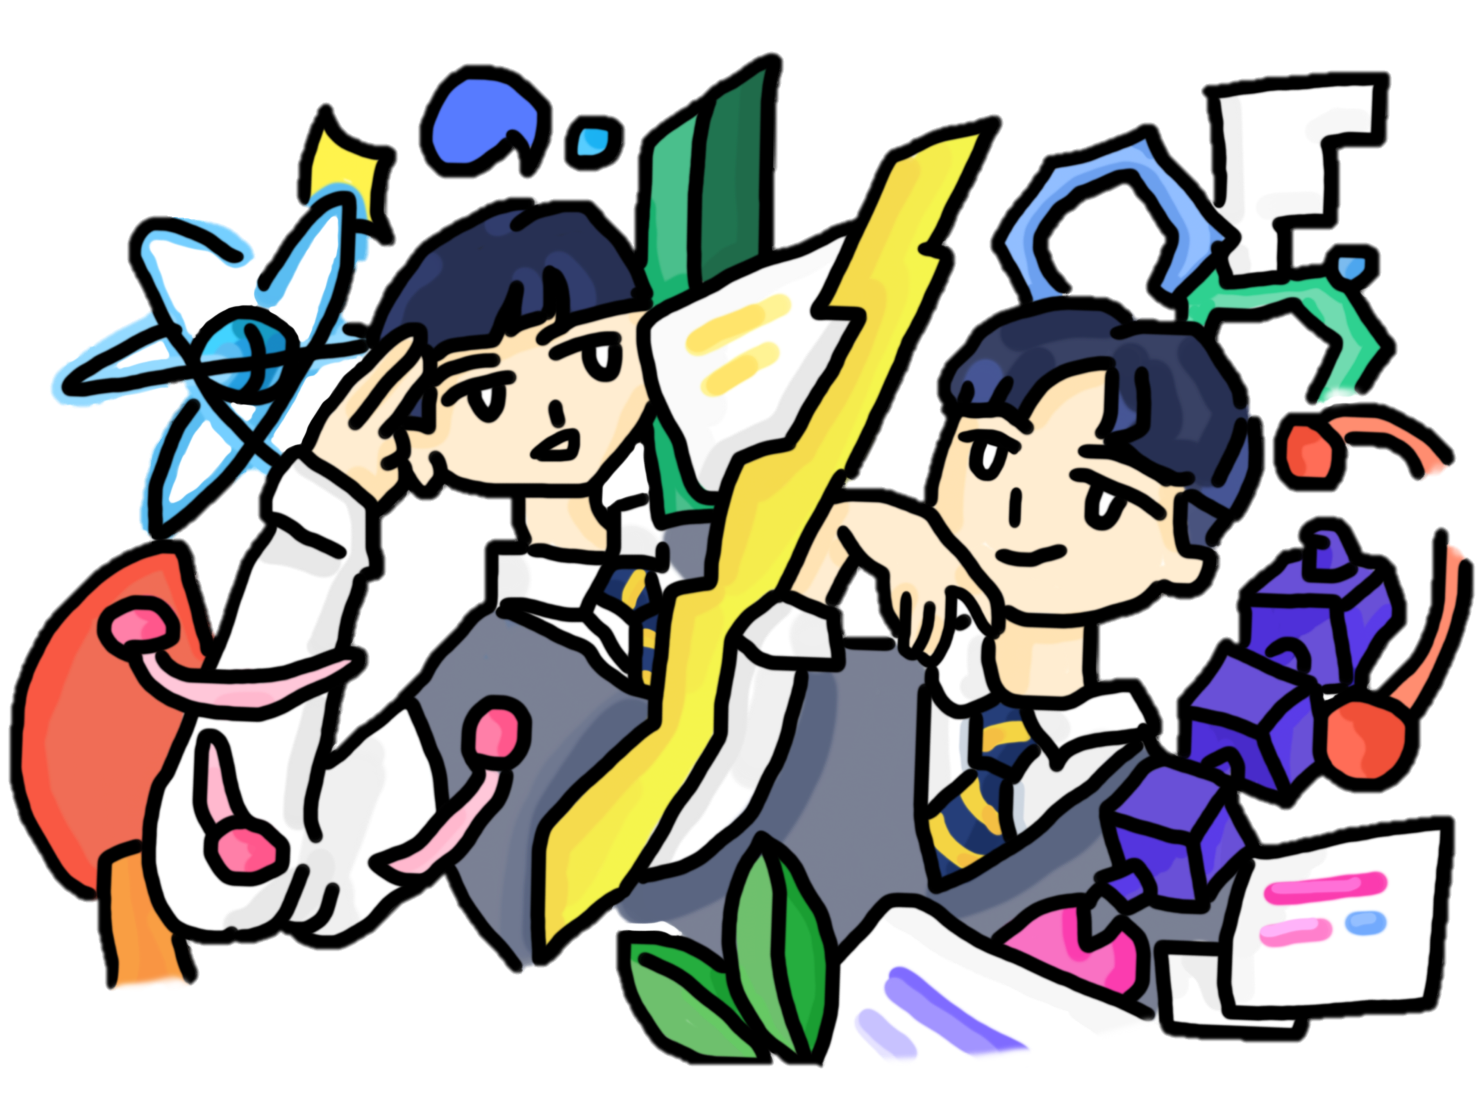
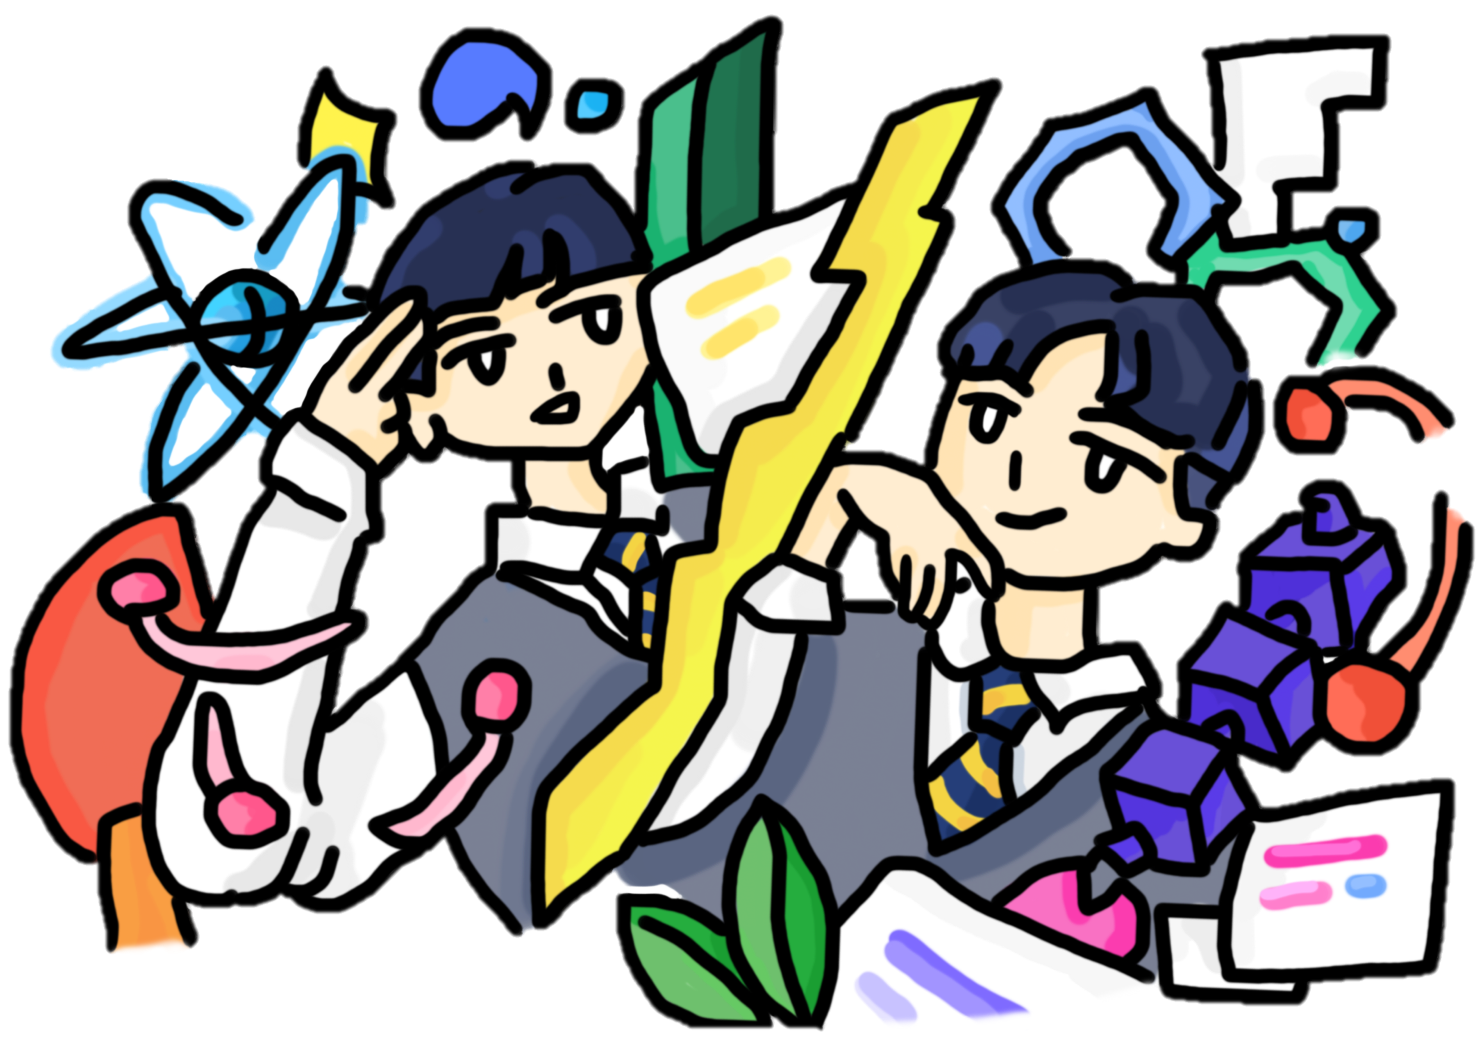
fix: responsive header

diff --git a/src/components/header.tsx b/src/components/header.tsx
@@ -8,8 +8,8 @@ const Container = styled.div`
   height: 386px;
   background: linear-gradient(to right, #ffd43b, #fcc419, #fab005, #f59f00, #f59f00);
 
-  @media (max-width: 795px) {
-    height: 486px;
+  @media (max-width: 600px) {
+    height: fit-content;
   }
 `;
 
@@ -18,26 +18,44 @@ const Wrapper = styled.div`
   padding: 2rem 1rem;
   max-width: 960px;
   flex-grow: 1;
-  background-image: url(/header-illust.png);
-  background-repeat: no-repeat;
-  background-position: right;
-  background-size: contain;
+`;
 
-  @media (max-width: 845px) {
-    background-position-x: calc(100% + 50px);
+const Image = styled.img`
+  position: absolute;
+  right: 0;
+  top: 0;
+  bottom: 0;
+  object-fit: contain;
+  height: 100%;
+
+  @media (max-width: 896px) {
+    height: 25rem;
+    top: unset;
   }
 
-  /* @media (max-width: 795px) {
-    background-position-y: -30px;
+  @media (max-width: 822px) {
+    height: 23rem;
+    top: unset;
   }
 
-  @media (max-width: 770px) {
-    background-position-y: -80px;
-  } */
+  @media (max-width: 780px) {
+    height: 20rem;
+    top: 0;
+    bottom: unset;
+  }
 
-  @media (max-width: 795px) {
-    background-size: contain;
-    background-position: center;
+  @media (max-width: 694px) {
+    height: 20rem;
+    top: -20px;
+    bottom: unset;
+  }
+
+  @media (max-width: 600px) {
+    position: unset;
+    top: 0;
+    left: 0;
+    width: 100%;
+    bottom: unset;
   }
 `;
 
@@ -66,8 +84,14 @@ const Title = styled.h1`
   background-clip: text;
   -webkit-background-clip: text;
 
-  @media (max-width: 845px) {
+  @media (max-width: 896px) {
     font-size: 36px;
+  }
+
+  @media (max-width: 600px) {
+    position: unset;
+    margin: 0;
+    margin-top: -30px;
   }
 `;
 
@@ -77,6 +101,7 @@ const Header = () => (
       <IndexLink to="/">
         <Brand>JUNHOYEO.GITHUB.IO</Brand>
       </IndexLink>
+      <Image src={'/header-illust.png'} />
       <Title>
         트렌디한<br />
         개발자를 꿈꾸는<br />
